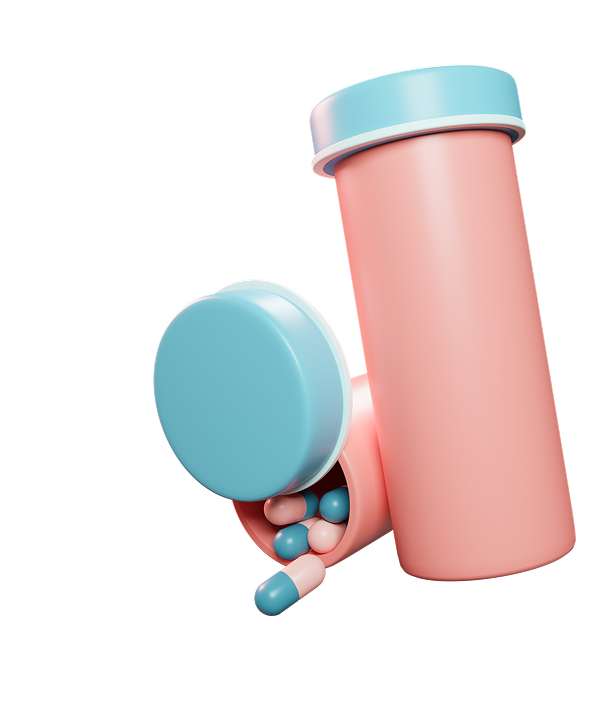
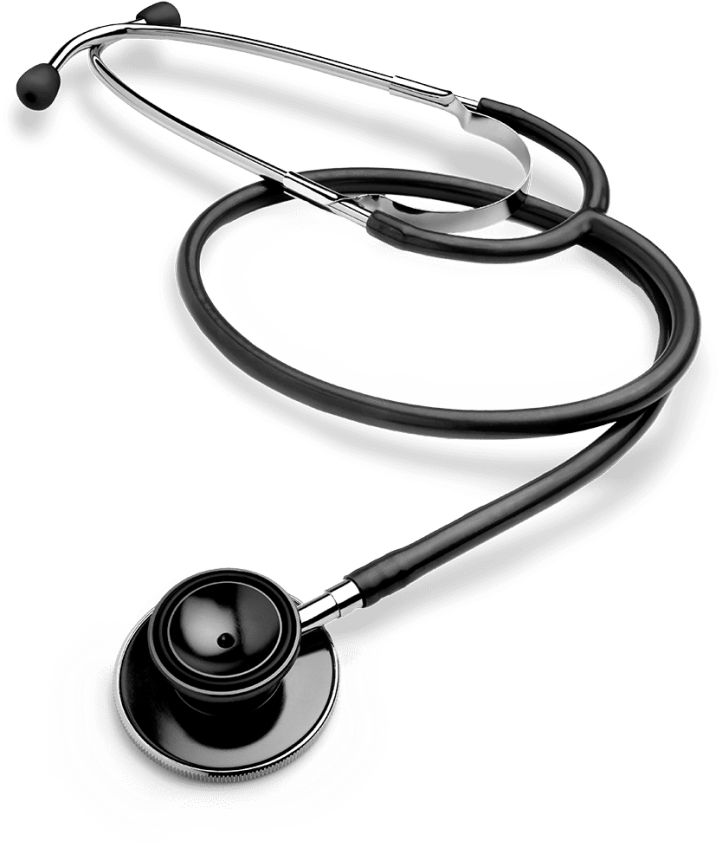
changed the hero image and updated UI

diff --git a/src/components/Home_Layout/Hero.jsx b/src/components/Home_Layout/Hero.jsx
@@ -12,7 +12,7 @@ const Hero = () => {
 
       {/* Main Heading */}
       {/* Parent Container: Centers the entire row on the screen */}
-      <div className="flex w-full items-center justify-center gap-5 bg-[#A4B494]/20 my-5">
+      <div className="flex w-full items-center justify-center gap-5 bg-[#cfe4d8]/30 my-5 pt-5 rounded-md">
         {/* Text Content: Left Side */}
         <div className="text-left">
           <h2 className="max-w-2xl text-4xl font-bold tracking-tight text-gray-900 sm:text-5xl">